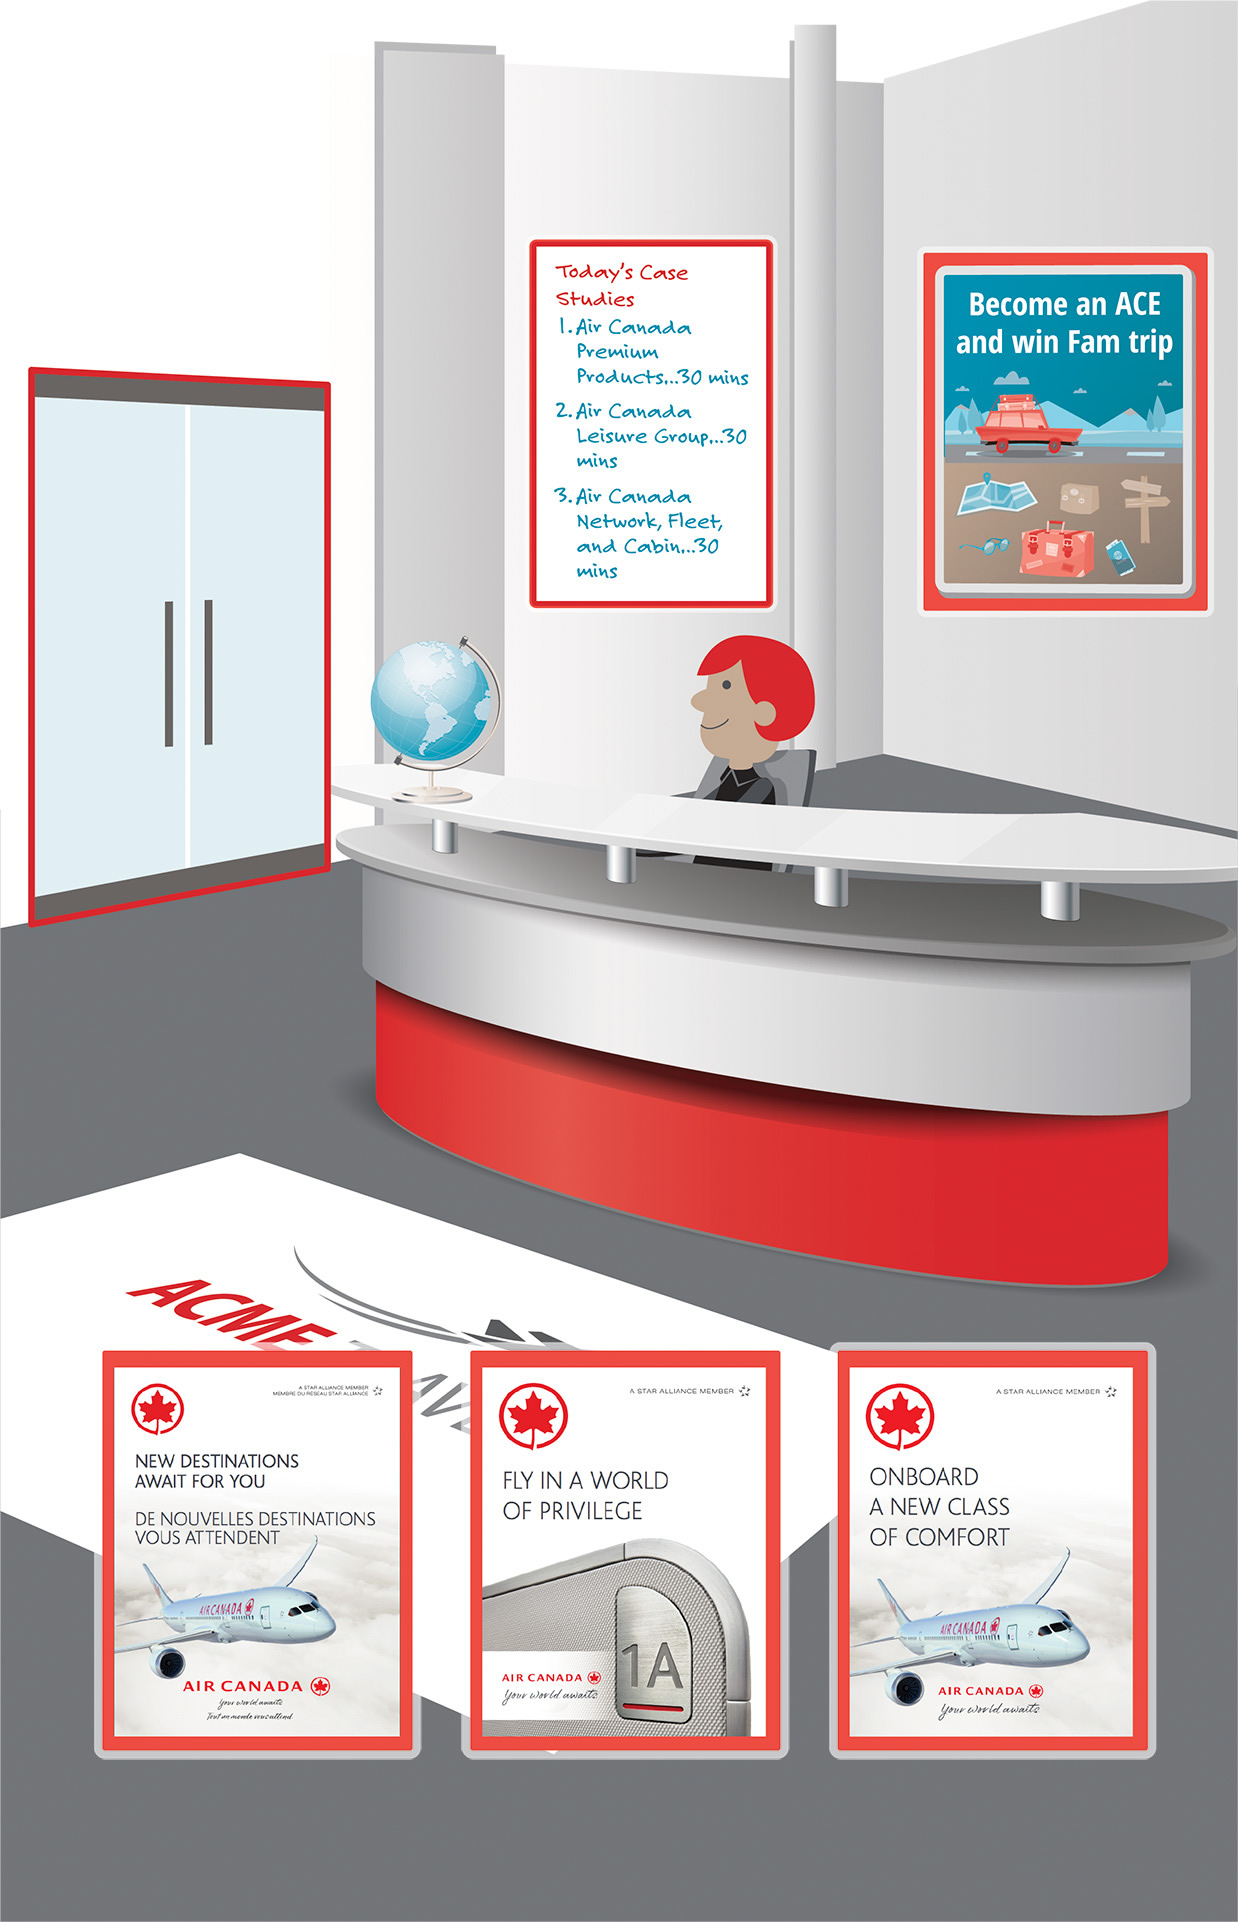
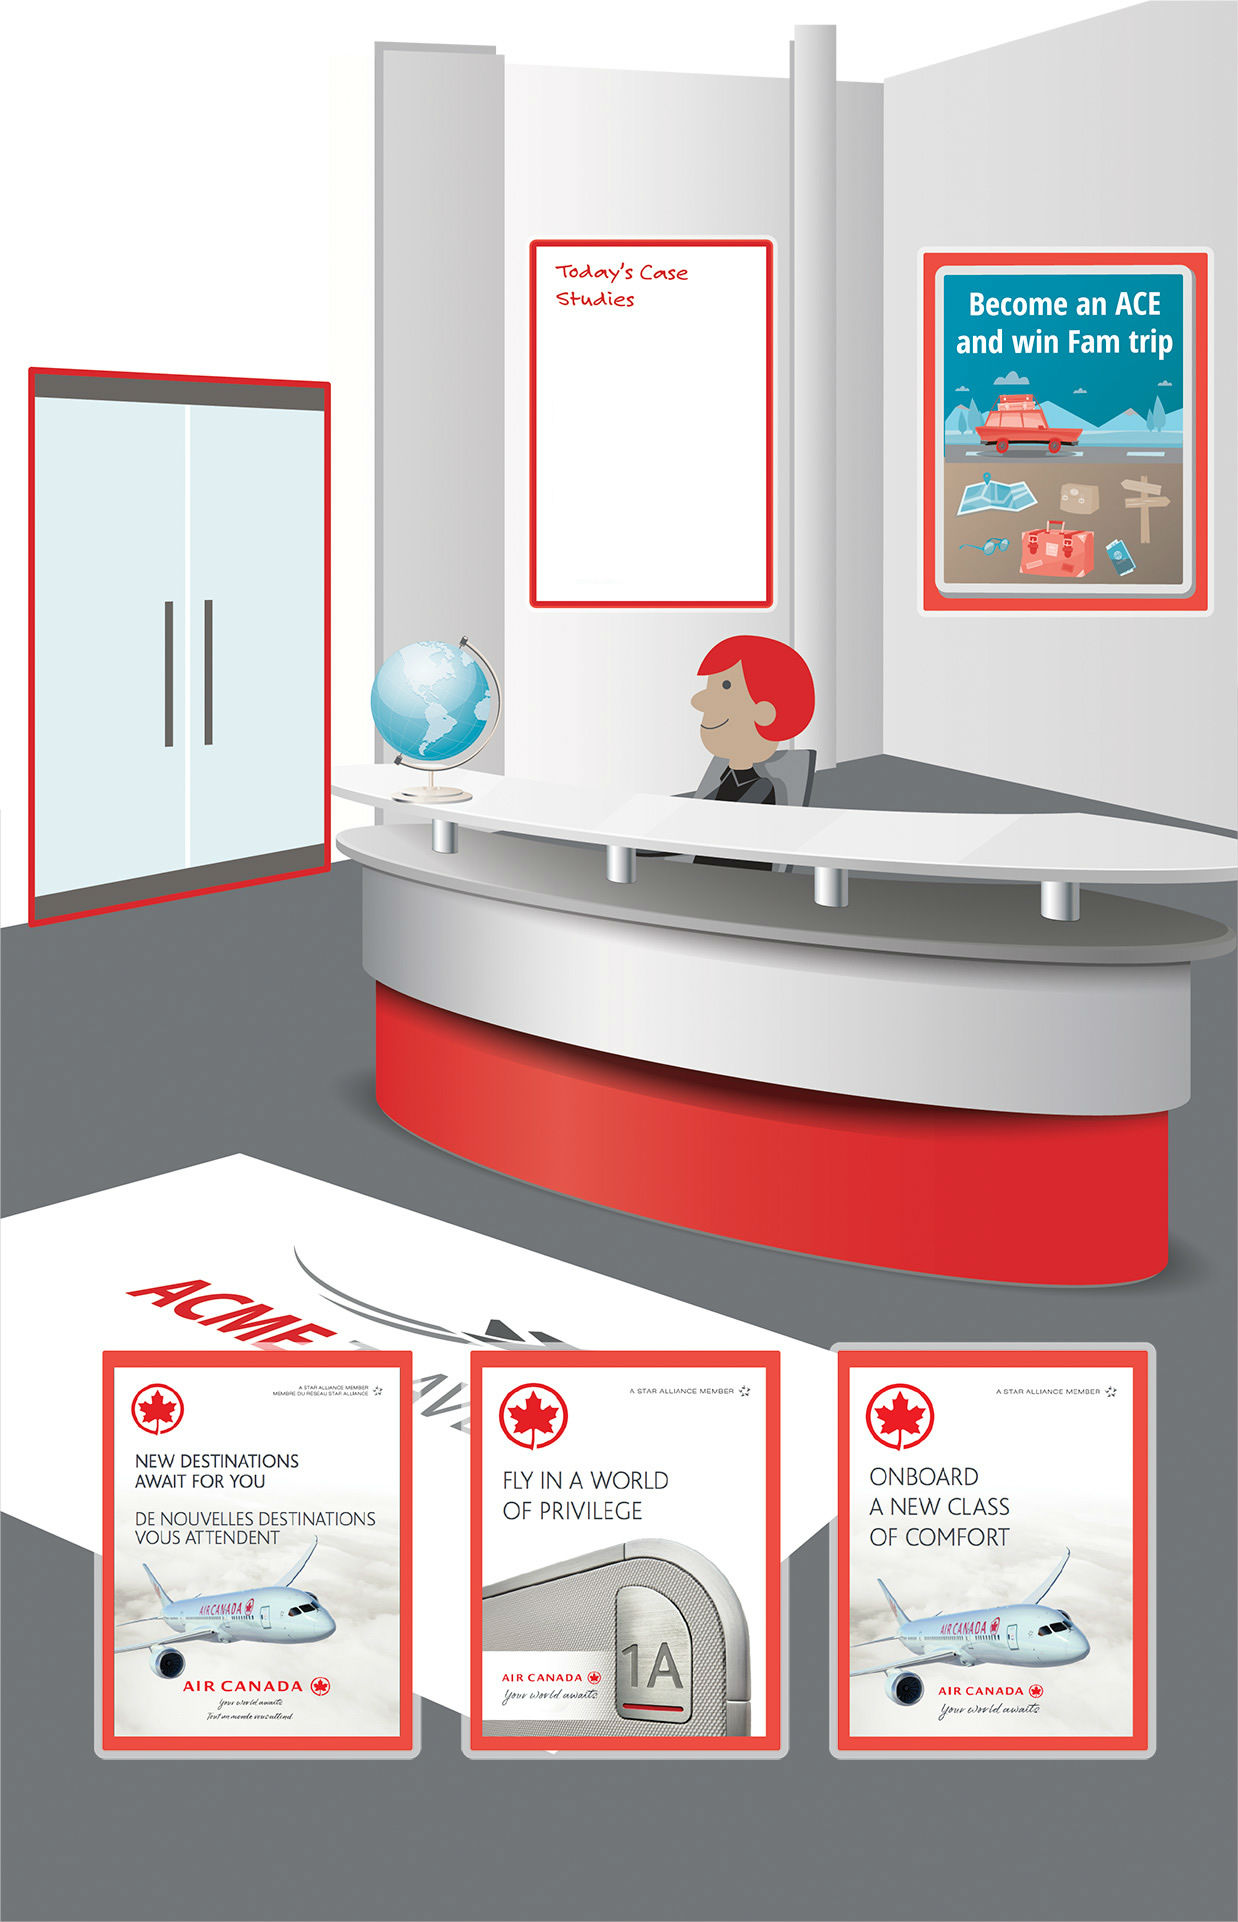
Minor tweaks for mobile version

Changed region(s): [[0.4604, 0.1561, 0.5832, 0.3122]]

diff --git a/index.html b/index.html
@@ -21,8 +21,8 @@
 		<nav id="top-menu" class="show-on-mobile">
       <button class="toggle-menu" type="button" onclick="toggle_menu();"></button>
       <ul class="links">
-        <li><a href="#" class="read-document" data-title="Introduction" >INTRODUCTION</a></li>
-        <li><a href="#" class="read-document" data-title="Instructions">INSTRUCTIONS</a></li>
+        <li><a href="#" class="read-document" data-title="Introduction" data-read-doc-id="introduction">INTRODUCTION</a></li>
+        <li><a href="#" class="read-document" data-title="Instructions" data-read-doc-id="instructions">INSTRUCTIONS</a></li>
         <li><a id="help" href="#" >HELP</a></li>
       </ul>
     </nav>
@@ -43,22 +43,31 @@
 					<a id="network_fleet" class="cs-selection hide-on-mobile" href="#" title="" data-tt-text="Select Case Study" data-case-study="network_fleet">
 						<img  src="img/whiteboard/network_fleet.png" />
 					</a>
+
+					<a id="premium_products" class="cs-selection show-on-mobile" href="#" data-case-study="premium_products">
+						<img src="img/whiteboard/mobile/premium_products.png" />
+					</a>
+					<a id="leisure_group" class="cs-selection show-on-mobile" href="#" data-case-study="leisure_group">
+						<img src="img/whiteboard/mobile/leisure_group.png" />
+					</a>
+					<a id="network_fleet" class="cs-selection show-on-mobile" href="#" data-case-study="network_fleet">
+						<img  src="img/whiteboard/mobile/network_fleet.png" />
+					</a>
 				</div>
 				<div class="globe-fb-trigger"></div>
 				<map name="map_lobby" id="map_lobby" class="hide-on-mobile">
-					<area id="brouchure1" class="read-document" shape="poly" coords="1740,910,1834,724,1970,742,1894,944" href="http://www.myvirtualpaper.com/doc/air-canada/2016_premium-class-brochure/2016011801/#0" target="_blank" data-title="Onboard a new class of comfort" alt="Onboard a new class of comfort" />
-					<area id="brouchure2" class="read-document" shape="poly" coords="1750,666,1840,484,1974,500,1900,688" href="http://www.myvirtualpaper.com/doc/air-canada/2015_premium-products-brochure/2015113001/#0" target="_blank" data-title="Fly in a world of privilege" alt="Fly in a world of privilege" />
-					<area id="brouchure3" class="read-document" shape="poly" coords="1756,422,1844,244,1976,256,1902,436" href="http://www.myvirtualpaper.com/doc/air-canada/2015_newroutes-brochure/2015090901#0" target="_blank" data-title="New destinations await for you" alt="New destinations await for you" />
-					<area id="poster" class="read-document skip-tooltip" shape="poly" coords="1304,130,1616,68,1616,68,1618,558,1302,536" href="files/poster_text.pdf" target="None" data-title="Poster" alt="Poster" />
+					<area data-read-doc-id="brouchure1" class="read-document" shape="poly" coords="1740,910,1834,724,1970,742,1894,944" href="http://www.myvirtualpaper.com/doc/air-canada/2016_premium-class-brochure/2016011801/#0" target="_blank" data-title="Onboard a new class of comfort" alt="Onboard a new class of comfort" />
+					<area data-read-doc-id="brouchure2" class="read-document" shape="poly" coords="1750,666,1840,484,1974,500,1900,688" href="http://www.myvirtualpaper.com/doc/air-canada/2015_premium-products-brochure/2015113001/#0" target="_blank" data-title="Fly in a world of privilege" alt="Fly in a world of privilege" />
+					<area data-read-doc-id="brouchure3" class="read-document" shape="poly" coords="1756,422,1844,244,1976,256,1902,436" href="http://www.myvirtualpaper.com/doc/air-canada/2015_newroutes-brochure/2015090901#0" target="_blank" data-title="New destinations await for you" alt="New destinations await for you" />
+					<area data-read-doc-id="poster" class="read-document skip-tooltip" shape="poly" coords="1304,130,1616,68,1616,68,1618,558,1302,536" href="files/poster_text.pdf" target="None" data-title="Poster" alt="Poster" />
 				</map>
 
 				<img name="lobby" src="img/lobby-mobile.jpg" id="lobby" usemap="#map_lobby_mobile" alt="" class="show-on-mobile" />
 				<map name="map_lobby_mobile" id="map_lobby_mobile">
-					<area id="brouchure1" shape="poly" coords="830,1340,1150,1340,1154,1756,830,1756" href="http://www.myvirtualpaper.com/doc/air-canada/2016_premium-class-brochure/2016011801/#0" target="_blank" alt="Onboard a new class of comfort" />
-					<area id="brouchure2" shape="poly" coords="464,1342,786,1340,786,1756,464,1756" href="http://www.myvirtualpaper.com/doc/air-canada/2015_premium-products-brochure/2015113001/#0" target="_blank" alt="Fly in a world of privilege" />
-					<area id="brouchure3" shape="poly" coords="94,1754,96,1342,420,1342,418,1756" href="http://www.myvirtualpaper.com/doc/air-canada/2015_newroutes-brochure/2015090901#0" target="_blank" alt="New destinations await for you" />
-
-					<area shape="poly" coords="922,250,1206,248,1208,614,920,610" href="#" target="None" title="Poster" alt="Poster" />
+					<area data-read-doc-id="brouchure1" class="read-document" shape="poly" coords="830,1340,1150,1340,1154,1756,830,1756" href="http://www.myvirtualpaper.com/doc/air-canada/2016_premium-class-brochure/2016011801/#0" target="_blank" alt="Onboard a new class of comfort" />
+					<area data-read-doc-id="brouchure2" class="read-document" shape="poly" coords="464,1342,786,1340,786,1756,464,1756" href="http://www.myvirtualpaper.com/doc/air-canada/2015_premium-products-brochure/2015113001/#0" target="_blank" alt="Fly in a world of privilege" />
+					<area data-read-doc-id="brouchure3" class="read-document" shape="poly" coords="94,1754,96,1342,420,1342,418,1756" href="http://www.myvirtualpaper.com/doc/air-canada/2015_newroutes-brochure/2015090901#0" target="_blank" alt="New destinations await for you" />
+					<area data-read-doc-id="poster" class="read-document" shape="poly" coords="922,250,1206,248,1208,614,920,610" href="files/poster_text.pdf" target="None" title="Poster" alt="Poster" />
 				</map>
 
 				<ul id="lobby-menu" class="hide-on-mobile">
@@ -484,12 +493,12 @@
 
 			<ul class="menu hide-on-mobile">
 				<li>
-					<a href="#" class="menu-item fb-trigger read-document" id="instructions" data-title="Instructions">
+					<a id="instructions" href="#" class="menu-item fb-trigger read-document" data-read-doc-id="instructions" data-title="Instructions">
 						<img src="img/instructions.png" alt="Instructions" />
 					</a>
 				</li>
 				<li>
-					<a href="#" class="menu-item fb-trigger read-document" id="introduction" data-title="Introduction">
+					<a id="introduction" href="#" class="menu-item fb-trigger read-document" data-read-doc-id="introduction" data-title="Introduction">
 						<img src="img/intro.png" alt="Intro" />
 					</a>
 				</li>

diff --git a/scripts/lobby.js b/scripts/lobby.js
@@ -30,12 +30,12 @@ var lobby_events = {
 
 
 function lobby_click_events() {
-	$('#map_lobby area, .read-document').click(function(jsEvent){
+	$('.read-document').click(function(jsEvent){
     $target = get_read_element($(jsEvent.target));
 
     if ($target !== undefined) {
     	if (!lobby_events.documents_read()) {
-    		read_lobby_document($target.attr('id'));
+    		read_lobby_document($target.data('read-doc-id'));
     	}
     }
   });
@@ -132,7 +132,7 @@ function non_clicked_elements_stringified() {
 }
 
 function get_read_element($target) {
-	if ($target.hasClass('read-document'))
+  if ($target.hasClass('read-document'))
 		return $target;
 	else if ($target.parent().hasClass('read-document'))
 		return $target.parent();

diff --git a/styles/main.css b/styles/main.css
@@ -249,6 +249,7 @@ img { outline: none; border: none; }
   background-color: #f1f1f2;
   position: absolute;
   z-index: 5;
+  background-color: transparent;
 }
 
 #top-menu .links {
@@ -413,9 +414,20 @@ img { outline: none; border: none; }
   padding-left: 1%;
 }
 
+.mobile-view .lobby .whiteboard {
+  width: 6.1%;
+  height: 20%;
+  top: 16.4%;
+  left: 47%;  
+}
+
 .lobby .whiteboard a {
   display: block;
   margin-top: 2px;
+}
+
+.mobile-view .lobby .whiteboard a {
+  margin-top: 3px;
 }
 
 .lobby .whiteboard img { width: 100%; }
